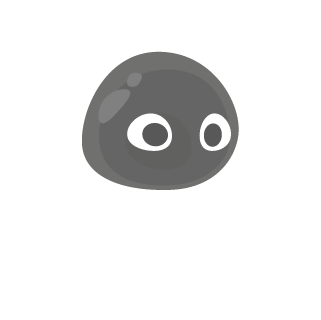
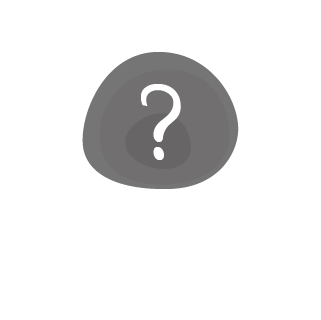
Random fix and Level Design collider fix
and that's it

diff --git a/Assets/Script/InGame/Spawning.cs b/Assets/Script/InGame/Spawning.cs
@@ -28,7 +28,7 @@ public class Spawning : MonoBehaviour {
 				SetCollisionMask("Player " + (i + 1).ToString (), instance);
 
 			} else if (PlayerPrefs.GetString ("Player " + (i + 1).ToString ()) == "Player Random") {
-				GameObject instance = Instantiate (players[Random.Range(0,4)], spawners [i].transform.position, Quaternion.identity) as GameObject;
+				GameObject instance = Instantiate (players[PlayerPrefs.GetInt("Random Player")], spawners [i].transform.position, Quaternion.identity) as GameObject;
 				instance.transform.parent = playersLayer.transform;
 
 				SetControll ("Player " + (i + 1).ToString (), instance);

diff --git a/Assets/Script/Menu/PlayerSelection.cs b/Assets/Script/Menu/PlayerSelection.cs
@@ -92,6 +92,7 @@ public class PlayerSelection : MonoBehaviour {
 					Search ("Selection").GetComponent<SpriteRenderer> ().sprite = selection [int.Parse(gameObject.GetComponent<SpriteRenderer> ().sprite.name.Substring (7))];
 				} else {
 					Search ("Selection").GetComponent<SpriteRenderer> ().sprite = selection [selection.Count - 1];
+					PlayerPrefs.SetInt("Random Player", Random.Range(0,4));
 				}
 			}
 		}

diff --git a/Assets/Script/Menu/SplashScreenText.cs b/Assets/Script/Menu/SplashScreenText.cs
@@ -10,10 +10,11 @@ public class SplashScreenText : MonoBehaviour {
 
 	int queriedNumberOfCtrlrs = XCI.GetNumPluggedCtrlrs ();
 	public Text TriggerTxt;
+    public 
 	// Use this for initialization
 	void Start () {
 		if (queriedNumberOfCtrlrs == 1){
-			TriggerTxt.text = "sgasdg";
+			TriggerTxt.text = "Press A to continue";
 		}else{
 			TriggerTxt.text = "Press SPACE to continue";
 		}
